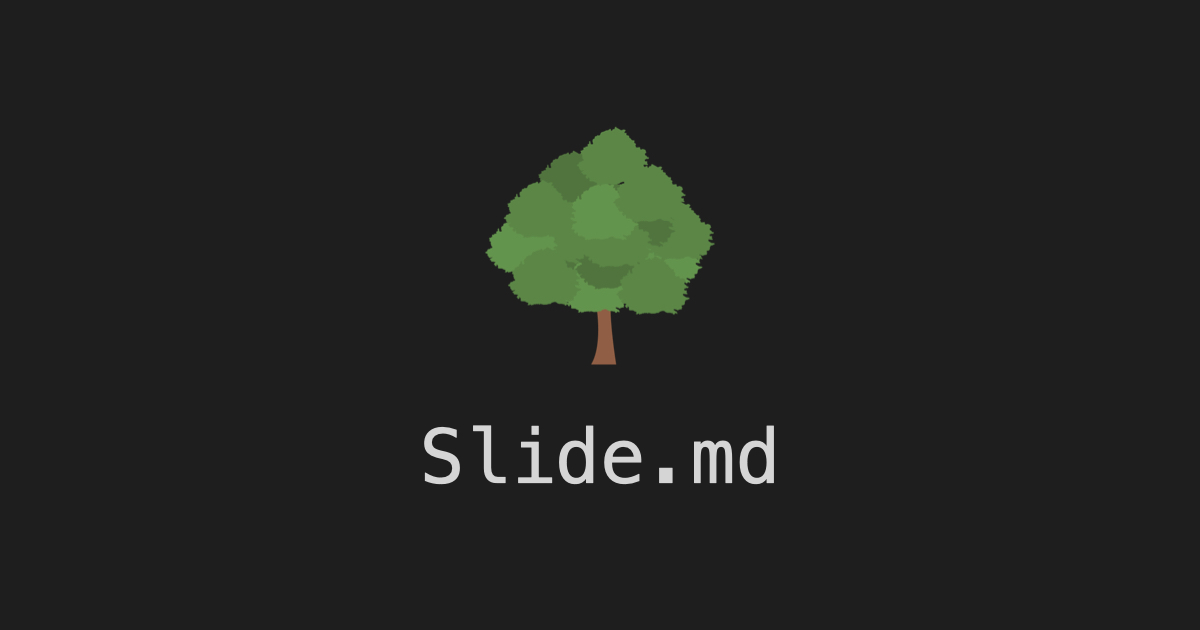
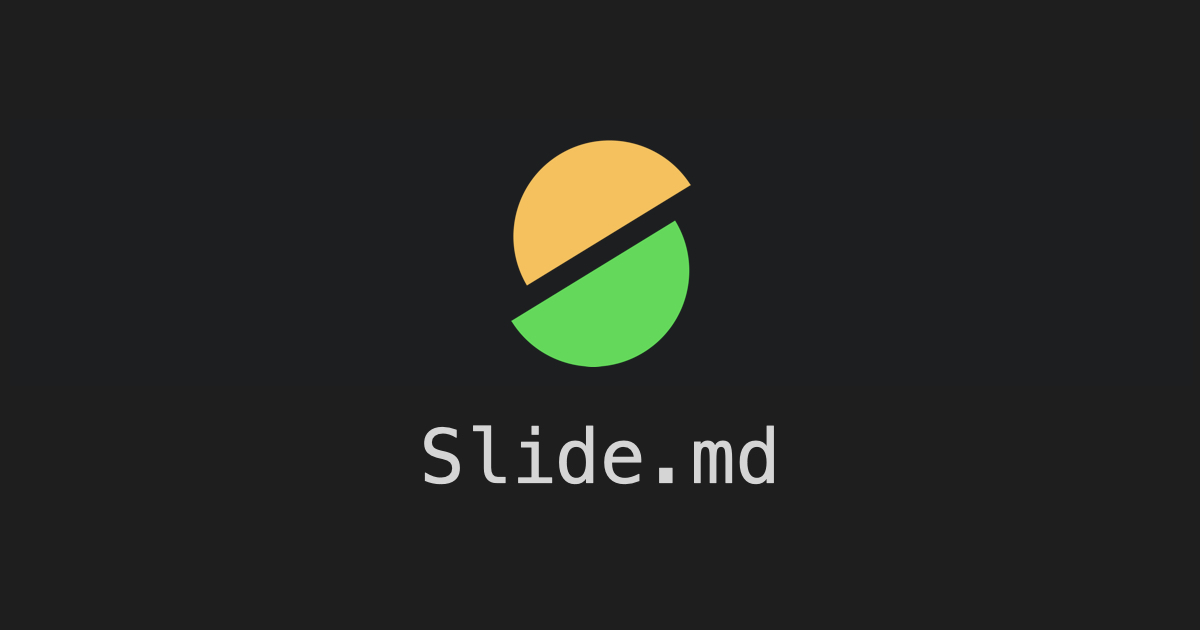
chore: change og tag image

Changed region(s): [[0.4008, 0.181, 0.6167, 0.6032]]

diff --git a/client/public/index.html b/client/public/index.html
@@ -11,7 +11,7 @@
     />
     <meta property="og:title" content="Slide.md"/>
     <meta property="og:description" content="Minimal and Beautiful slides with markdown">
-    <meta property="og:image" content="https://i.ibb.co/RQNh7qx/og.jpg">
+    <meta property="og:image" content="https://i.ibb.co/Bs5ggw4/og.jpg">
     <link rel="apple-touch-icon" href="%PUBLIC_URL%/logo192.png" />
     <!--
       manifest.json provides metadata used when your web app is installed on a
